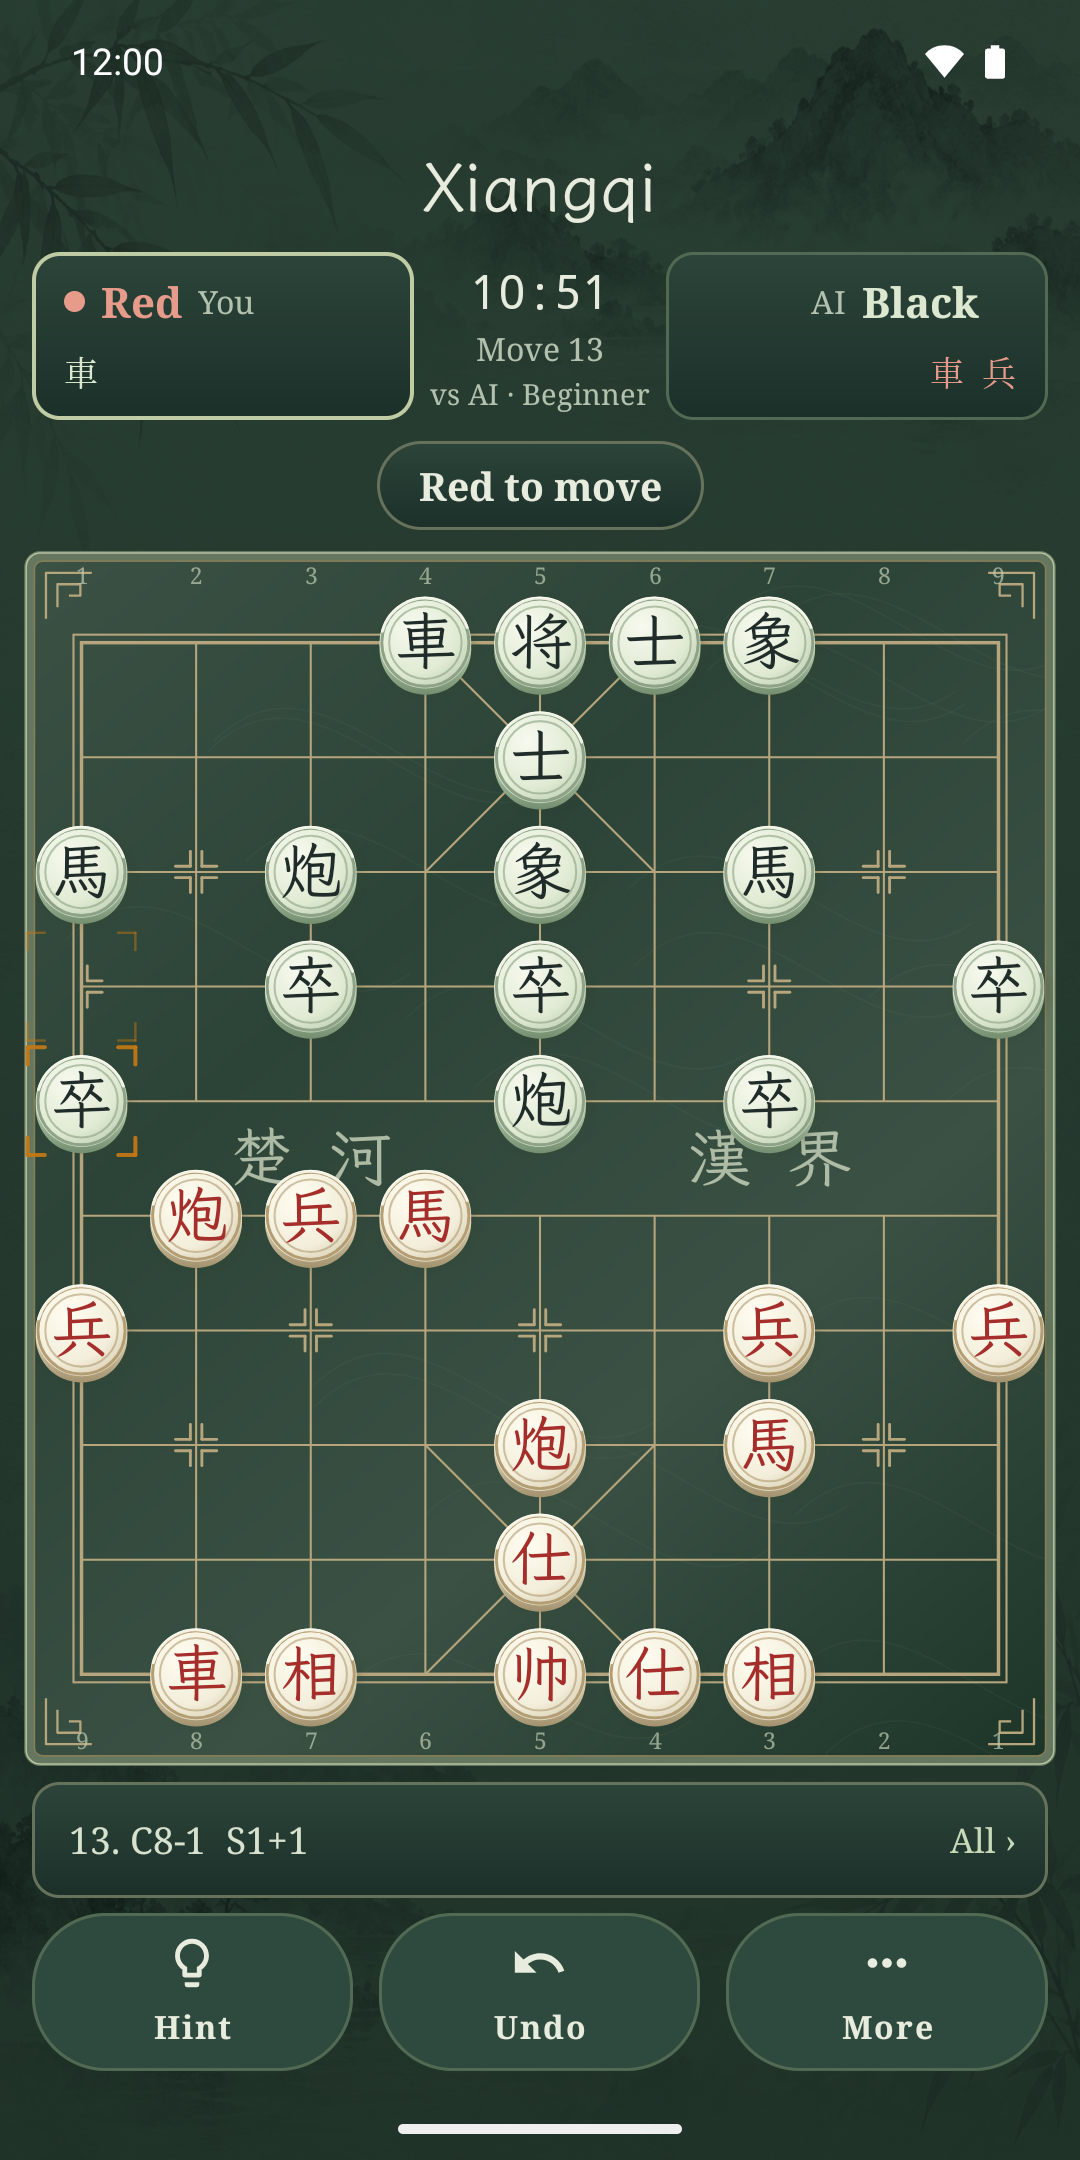
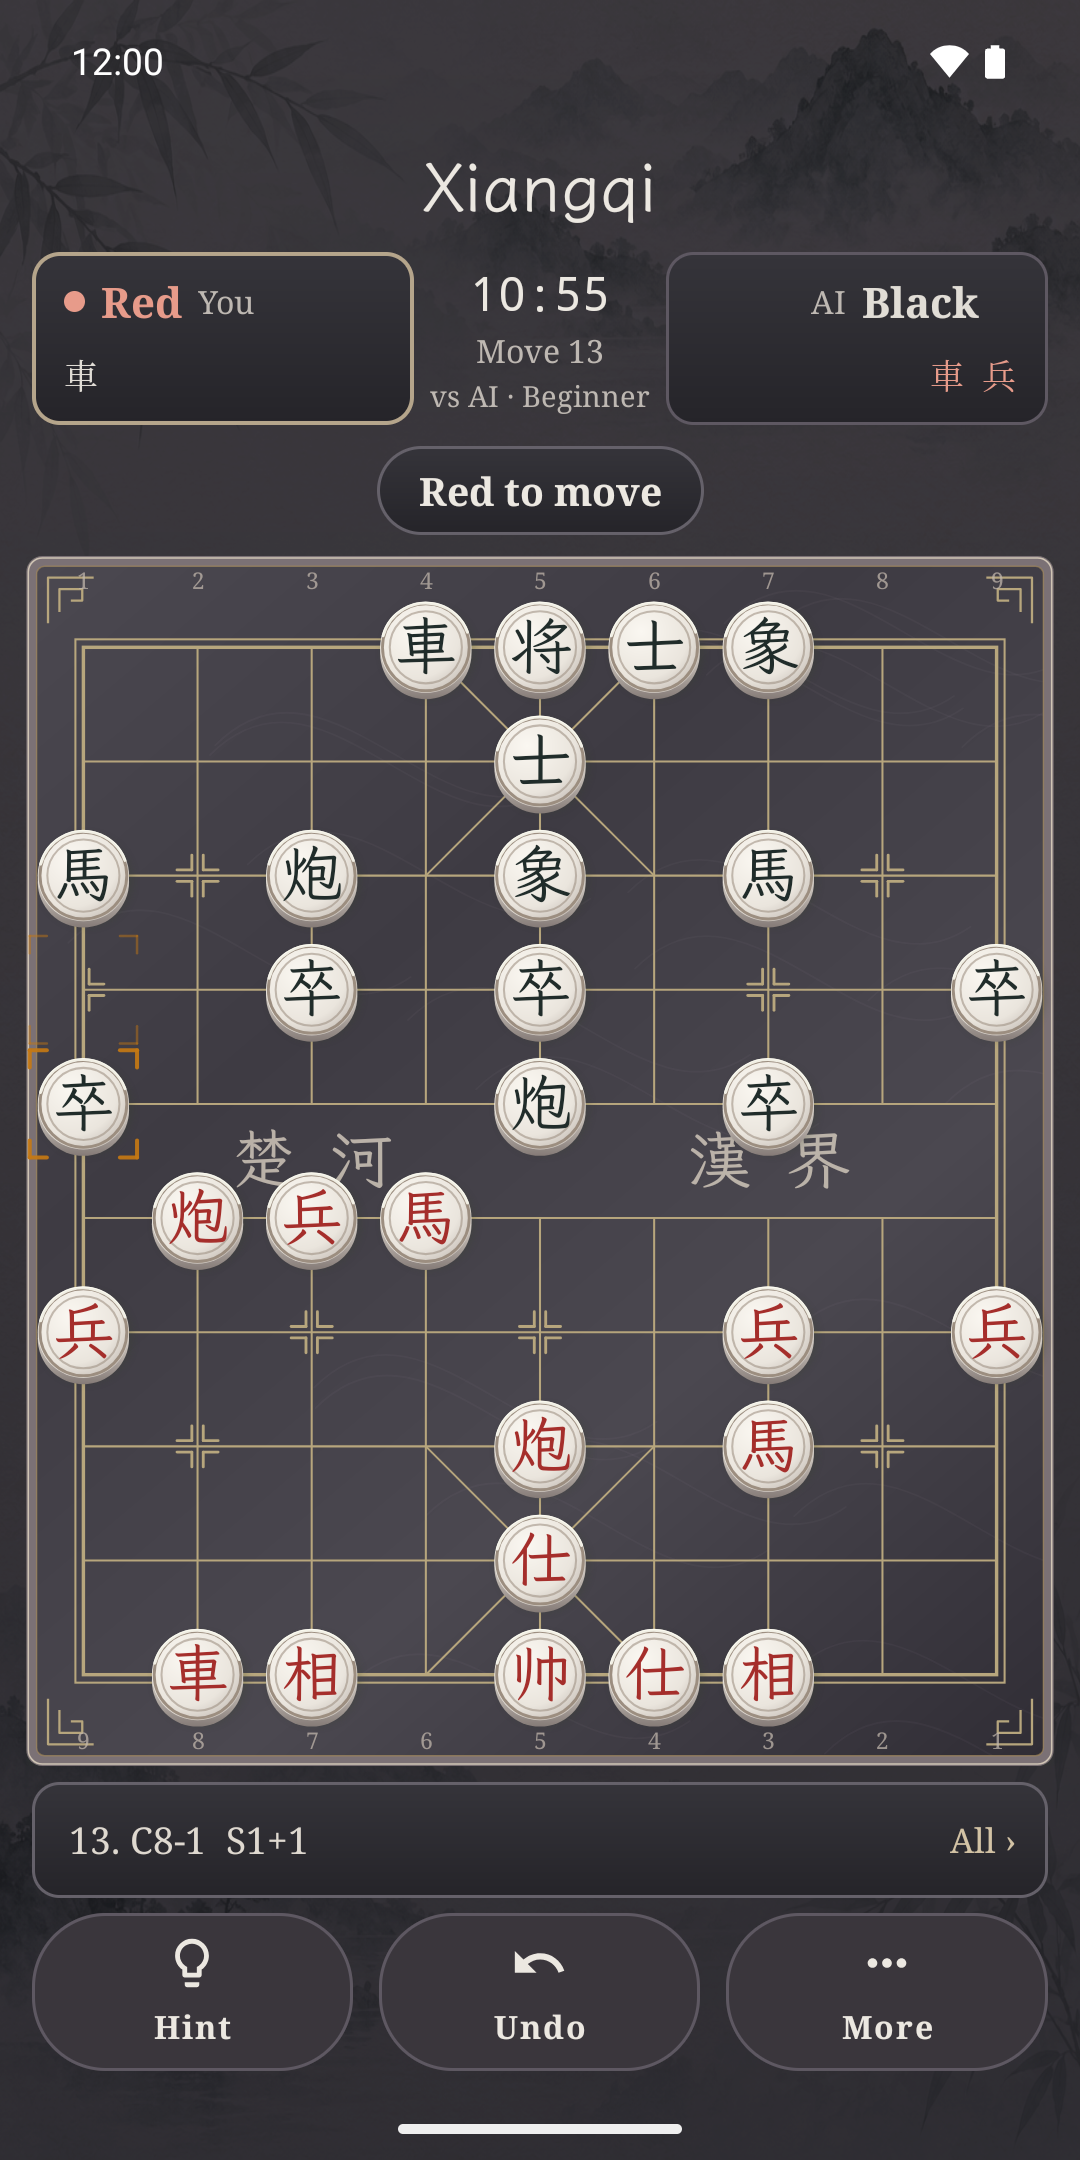
Smoky ink dark screenshots; listings and site say the app opens dark

diff --git a/docs/index.html b/docs/index.html
@@ -271,7 +271,7 @@
         <div class="feature-card">
             <div class="icon">&#x1F3A8;</div>
             <h3>Classical Design</h3>
-            <p>A pale jade board on an ink-wash landscape, pieces in a brush-style Kai typeface in cinnabar red and ink black, and a dark theme, Night Jade, that can follow the system.</p>
+            <p>A pale jade board on an ink-wash landscape, pieces in a brush-style Kai typeface in cinnabar red and ink black, and a smoky ink dark theme, Night Jade, that the app opens in.</p>
         </div>
         <div class="feature-card">
             <div class="icon">&#x1F4BE;</div>
